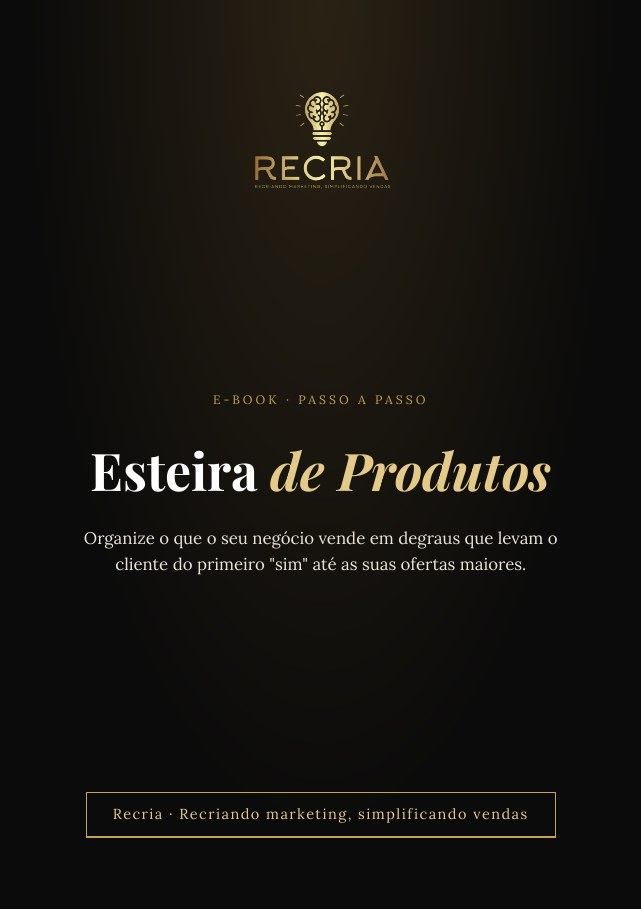
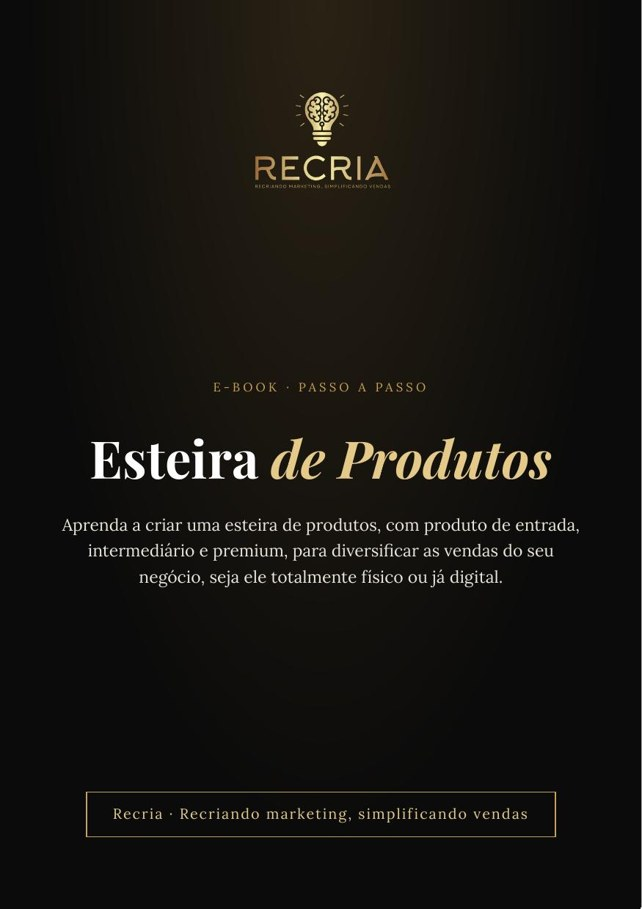
Página Esteira: novo texto da capa e exemplos
Claude-Session: https://claude.ai/code/session_01DxpPKgzfVt8WYQSkZW1Msu

diff --git a/esteira-de-produtos/index.html b/esteira-de-produtos/index.html
@@ -3,10 +3,10 @@
 <meta charset="utf-8"><meta name="viewport" content="width=device-width,initial-scale=1">
 <meta name="robots" content="noindex">
 <title>Recria Esteira de Produtos · Agência Recria</title>
-<meta name="description" content="Organize o que o seu negócio vende em degraus que levam o cliente do primeiro sim até as suas ofertas maiores.">
+<meta name="description" content="Aprenda a criar uma esteira de produtos, com produto de entrada, intermediário e premium, para diversificar as vendas do seu negócio, seja ele totalmente físico ou já digital.">
 <meta property="og:type" content="website">
 <meta property="og:title" content="Recria Esteira de Produtos">
-<meta property="og:description" content="Organize o que o seu negócio vende em degraus que levam o cliente do primeiro sim até as suas ofertas maiores.">
+<meta property="og:description" content="Aprenda a criar uma esteira de produtos, com produto de entrada, intermediário e premium, para diversificar as vendas do seu negócio, seja ele totalmente físico ou já digital.">
 <meta property="og:url" content="https://www.agenciarecria.com.br/esteira-de-produtos/">
 <link rel="icon" href="../assets/icone.png" type="image/png">
 <link rel="preconnect" href="https://fonts.googleapis.com"><link rel="preconnect" href="https://fonts.gstatic.com" crossorigin>
@@ -31,7 +31,7 @@ fbq("init","2122997488598240");fbq("track","PageView");
 <img class="logo" src="../assets/logo.png" alt="Agência Recria">
 <div class="kick">E-book · Passo a passo</div>
 <h1>Esteira <em>de Produtos</em></h1>
-<p class="sub">Organize o que o seu negócio vende em degraus que levam o cliente do primeiro "sim" até as suas ofertas maiores.</p>
+<p class="sub">Aprenda a criar uma esteira de produtos, com produto de entrada, intermediário e premium, para diversificar as vendas do seu negócio, seja ele totalmente físico ou já digital.</p>
 <div class="capa-wrap"><img class="capa" src="capa.jpg" alt="Recria Esteira de Produtos"></div>
 <a class="btn" href="#oferta" data-checkout>Quero o guia</a>
 <p style="font-size:14px;color:#b8ad96;margin-top:14px">Acesso imediato · Garantia de 7 dias</p>
@@ -45,7 +45,7 @@ fbq("init","2122997488598240");fbq("track","PageView");
 
 <section class="dark"><div class="wrap">
 <h2>O que você vai encontrar</h2>
-<div class="grid3"><div class="card"><h3>A lógica da esteira</h3><p>Isca, entrada, order bump, intermediário, premium e recorrência.</p></div><div class="card"><h3>Princípios de uma boa esteira</h3><p>O que ligar, quanto subir de preço e o que o cliente pergunta em cada degrau.</p></div><div class="card"><h3>Desenhe os seus degraus</h3><p>Inventário e mapa, para montar a esteira do seu negócio.</p></div><div class="card"><h3>Esteiras completas</h3><p>Exemplos de 6 negócios: pet, moda, finanças, agência, estética e idiomas.</p></div><div class="card"><h3>Order bump e upsell</h3><p>Como vender mais na mesma jornada, com transparência.</p></div><div class="card"><h3>A matemática</h3><p>Margem, conversão, ticket médio e o valor do cliente.</p></div></div>
+<div class="grid3"><div class="card"><h3>A lógica da esteira</h3><p>Isca, entrada, order bump, intermediário, premium e recorrência.</p></div><div class="card"><h3>Princípios de uma boa esteira</h3><p>O que ligar, quanto subir de preço e o que o cliente pergunta em cada degrau.</p></div><div class="card"><h3>Desenhe os seus degraus</h3><p>Inventário e mapa, para montar a esteira do seu negócio.</p></div><div class="card"><h3>Esteiras completas</h3><p>Exemplos de 6 negócios, de uma borracharia a uma consultoria online: nutricionista, moda, finanças, agência e idiomas.</p></div><div class="card"><h3>Order bump e upsell</h3><p>Por que eles aumentam o seu lucro e reduzem o custo de cada cliente.</p></div><div class="card"><h3>A matemática</h3><p>Margem, conversão, ticket médio e o valor do cliente.</p></div></div>
 </div></section>
 
 <section><div class="wrap">
@@ -83,7 +83,7 @@ fbq("init","2122997488598240");fbq("track","PageView");
 <section><div class="wrap">
 <h2>FAQ: <em>perguntas frequentes</em></h2>
 <details><summary>Preciso já ter vários produtos?</summary><p>Não. O guia ajuda a organizar o que existe e a planejar o que criar.</p></details>
-<details><summary>Serve para serviços?</summary><p>Sim. Os exemplos incluem consultoria, agência, estética e idiomas.</p></details>
+<details><summary>Serve para serviços?</summary><p>Sim. Os exemplos incluem consultoria, agência, nutrição, borracharia e idiomas.</p></details>
 <details><summary>Como recebo o material?</summary><p>Na compra, você recebe o acesso pela Hotmart, no seu e-mail, e baixa o PDF na hora.</p></details>
 <details><summary>Posso ler pelo celular?</summary><p>Sim. O material foi feito em formato que funciona bem no celular, no tablet e no computador.</p></details>
 <details><summary>Por quanto tempo terei acesso?</summary><p>O acesso ao material é seu para sempre.</p></details>
